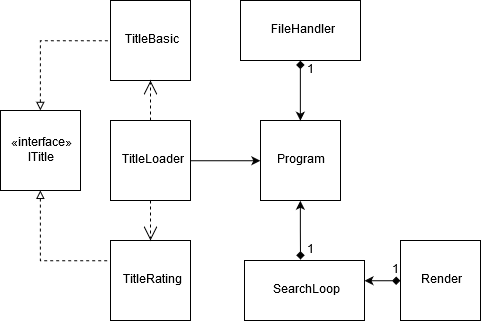
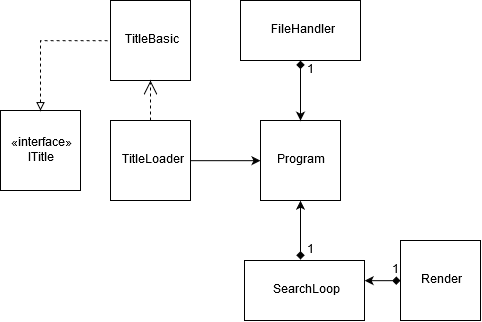
Update README

diff --git a/README.md b/README.md
@@ -28,17 +28,14 @@ chamando o método `Loop()` através de uma instância da classe `SearchLoop`.
 
 Esta classe é responsável pelo ciclo de pesquisa gerindo o _input_ do
 utilizador. Criámos uma interface `ITitle` que contém um `ID` que é comum a
-todos os _Titles_, com isto fizémos com que as `structs` `TitleBasic` e
-`TitleRating` herdassem desta.
+todos os _Titles_, com isto fizémos com que a `struct` `TitleBasic` herdasse desta.
 
 A _struct_ `TitleBasic` contem os parâmetros
-necessários para instanciar os _Titles_ vindos do ficheiro
-`title.basics.tsv.gz`, enquanto que a `struct TitleRating` tem os parâmetros
-para instanciar os _Titles_ vindos do ficheiro `title.ratings.tsv.gz`.
+necessários para instanciar os _Titles_ com todas as suas informações
+atuais vindas dos ficheiros `title.basics.tsv.gz` e `title.ratings.tsv.gz`.
 
-A classe `TitleLoader` é responsável por converter os ficheiros dados em
-coleções de `TitleRating` e `TitleBasic` que são inicializadas na classe
-`SearchLoop` onde, como referido anteriormente, é feito o ciclo de pesquisa.
+A classe `TitleLoader` é responsável por converter os ficheiros dados numa
+coleção de `ITitle` que é inicializada na classe `SearchLoop` onde, como referido anteriormente, é feito o ciclo de pesquisa.
 
 A classe `Render` é usada para demonstrar e escrever na consola o
 pretendido pelo utilizador e informações de menus.
@@ -97,6 +94,8 @@ por géneros.
 - *[FileStream Class](https://docs.microsoft.com/en-us/dotnet/api/system.io.filestream?view=netframework-4.8)*
 - *[StreamReader Class](https://docs.microsoft.com/en-us/dotnet/api/system.io.streamreader?view=netframework-4.8)*
 - *[GZipStream Class](https://docs.microsoft.com/en-us/dotnet/api/system.io.compression.gzipstream?view=netframework-4.8)*
+- *[Enumerable.Join Method](https://docs.microsoft.com/en-us/dotnet/api/system.linq.enumerable.join?view=netcore-3.0)*
+- *[Enumerable.ElementAt<TSource>(IEnumerable<TSource>, Int32) Method](https://docs.microsoft.com/en-us/dotnet/api/system.linq.enumerable.elementat?view=netframework-4.8)*
 
 **Nota:** Algumas das referências utilizadas não foram implementadas diretamente
 mas a sua forma de funcionamento foi inspiração para criação de algoritmos
